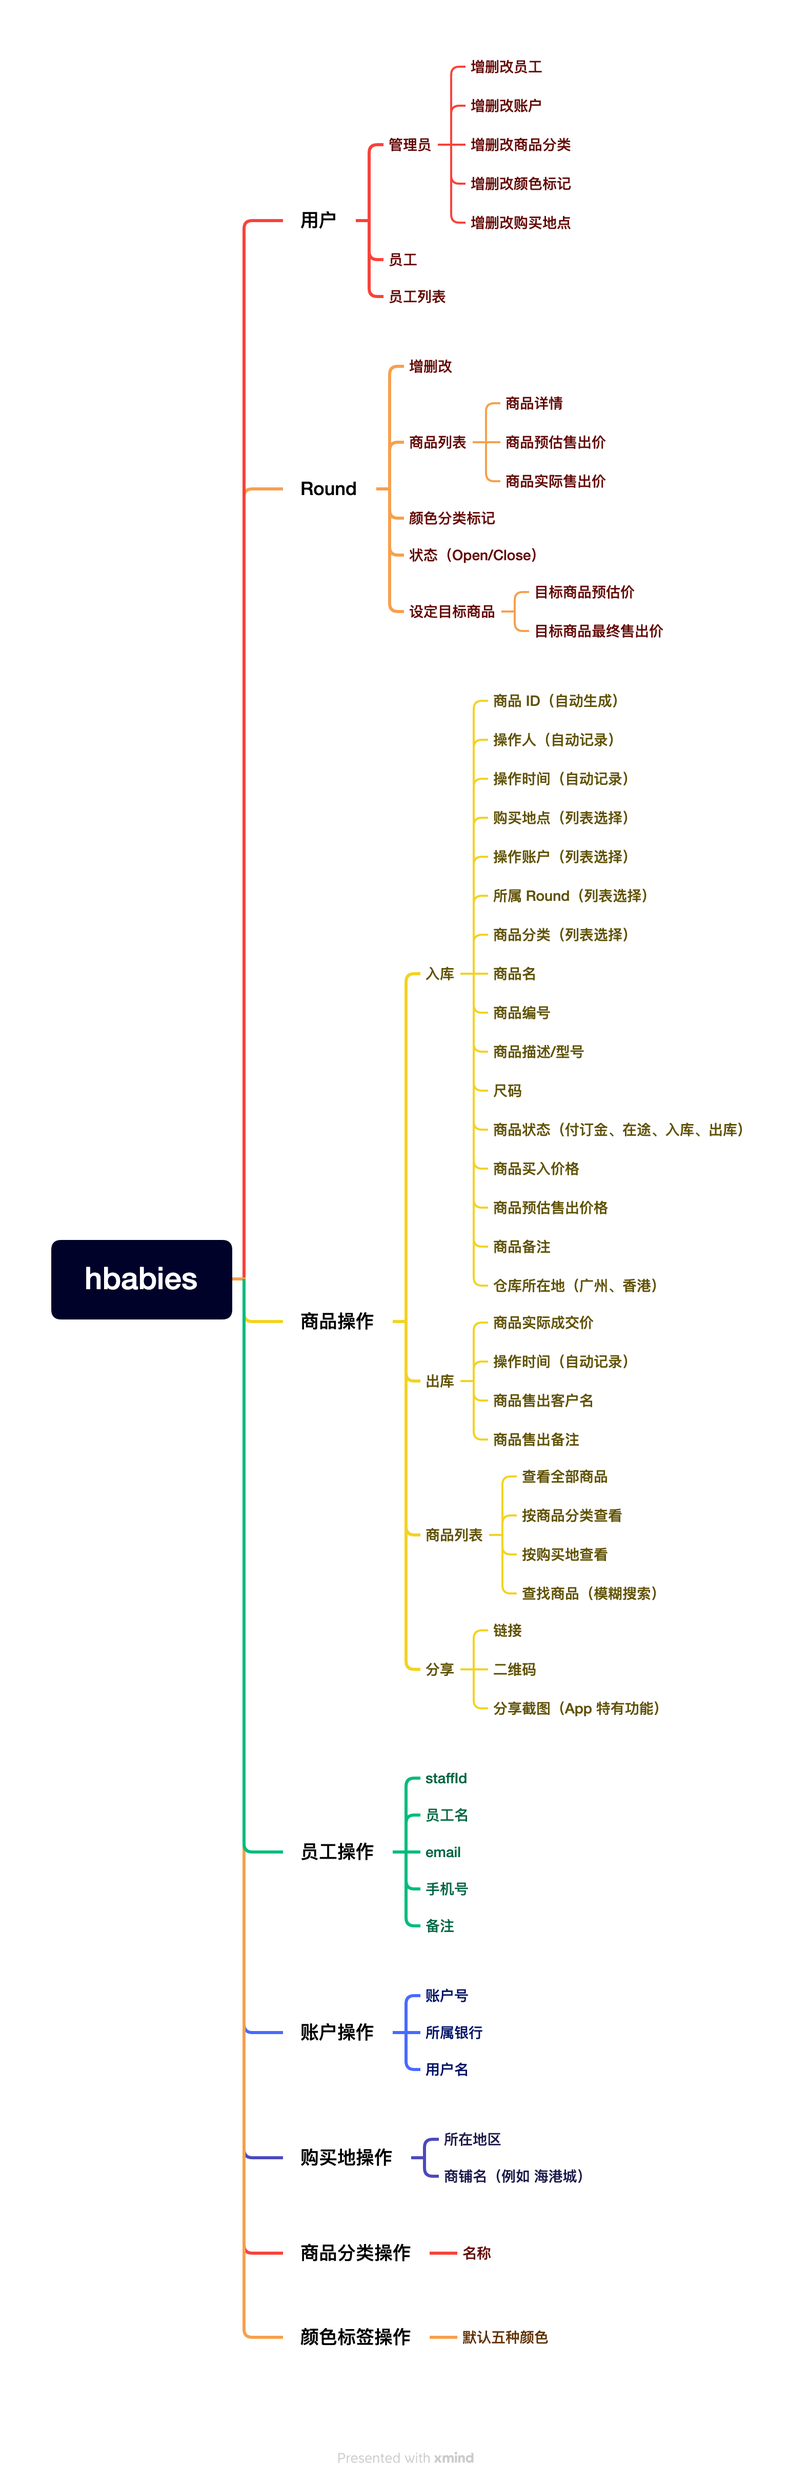
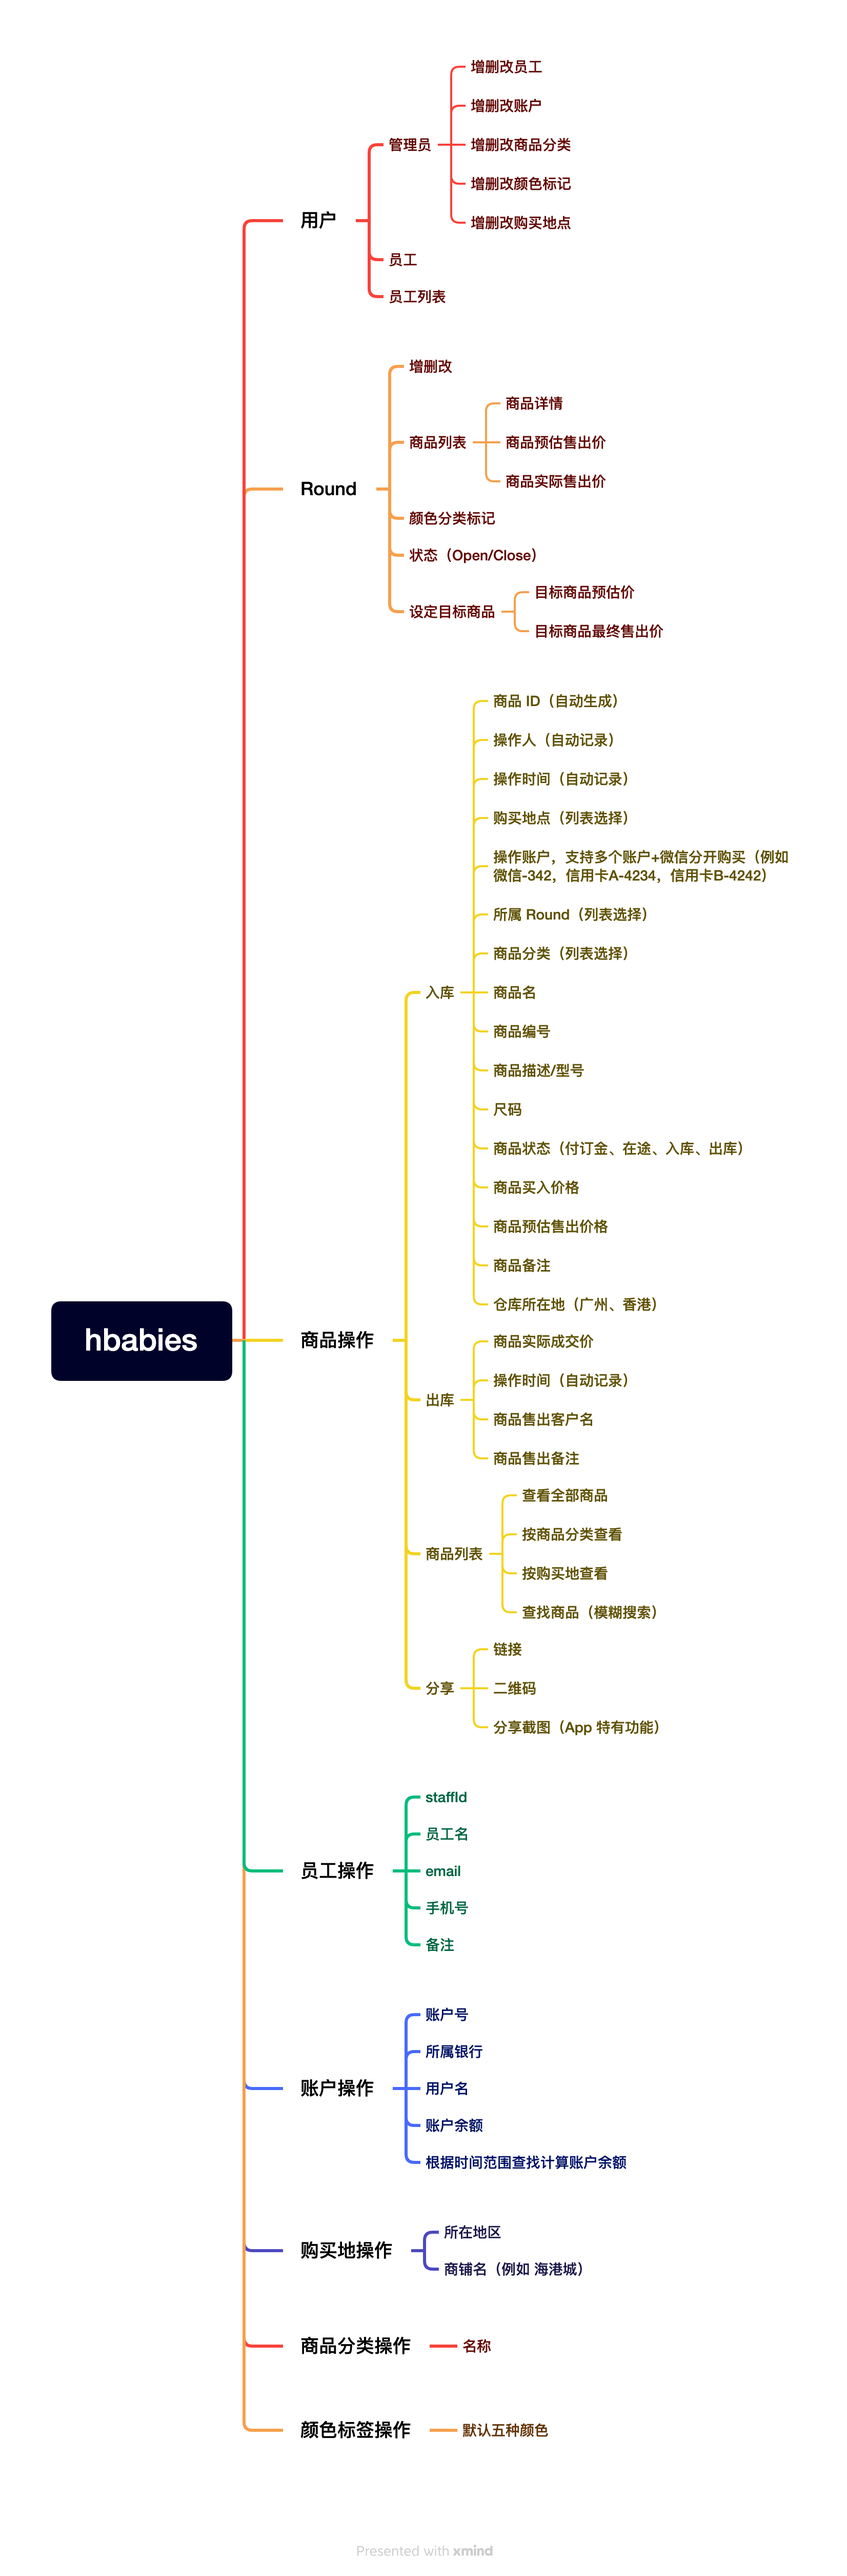
feat: push business

diff --git a/Business.md b/Business.md
@@ -85,11 +85,13 @@
 - 商品标签
 - Round 颜色标签（五档）
 
-### 账号管理功能
+### 账号（信用卡）管理功能
 
 - 新增账户
 - 修改账户信息
 - 删除账户
+- 设置账户余额
+- 根据时间范围和订单扣价查询账户余额
 
 ### 购买地功能
 
